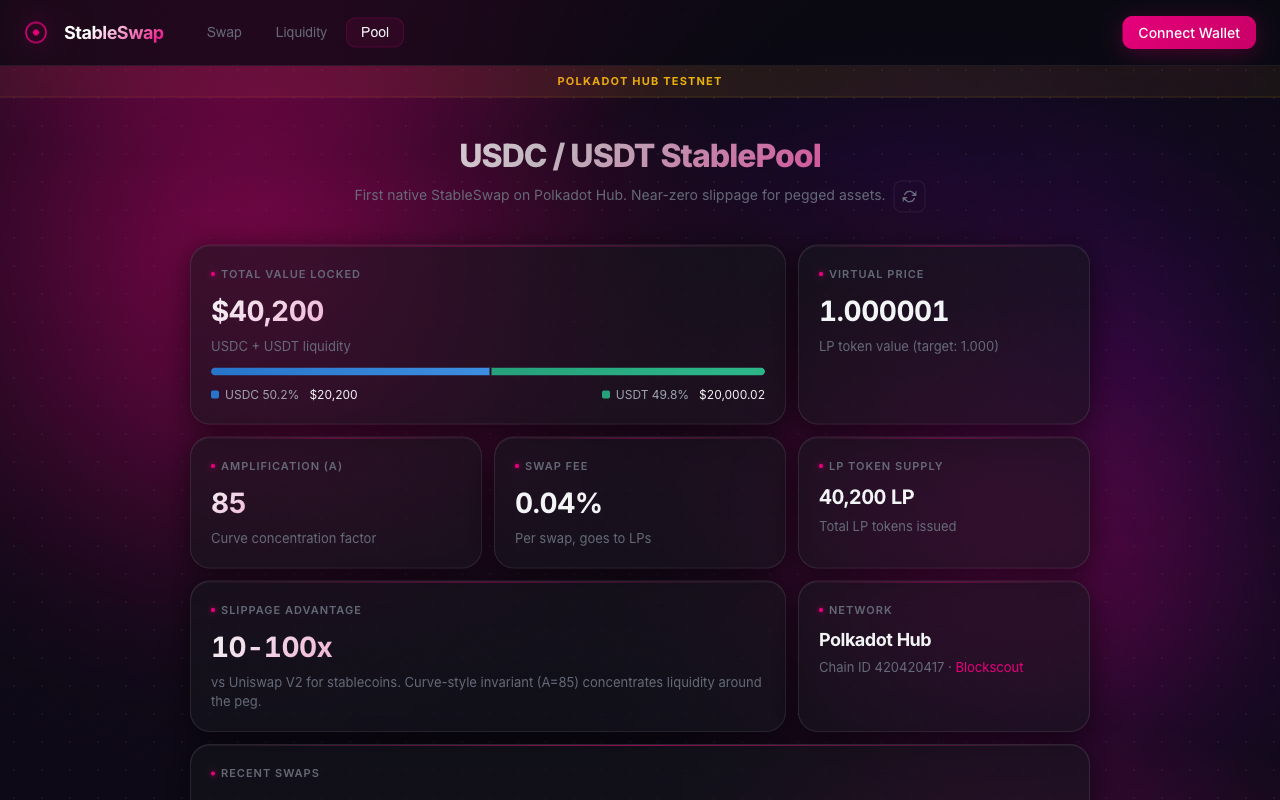
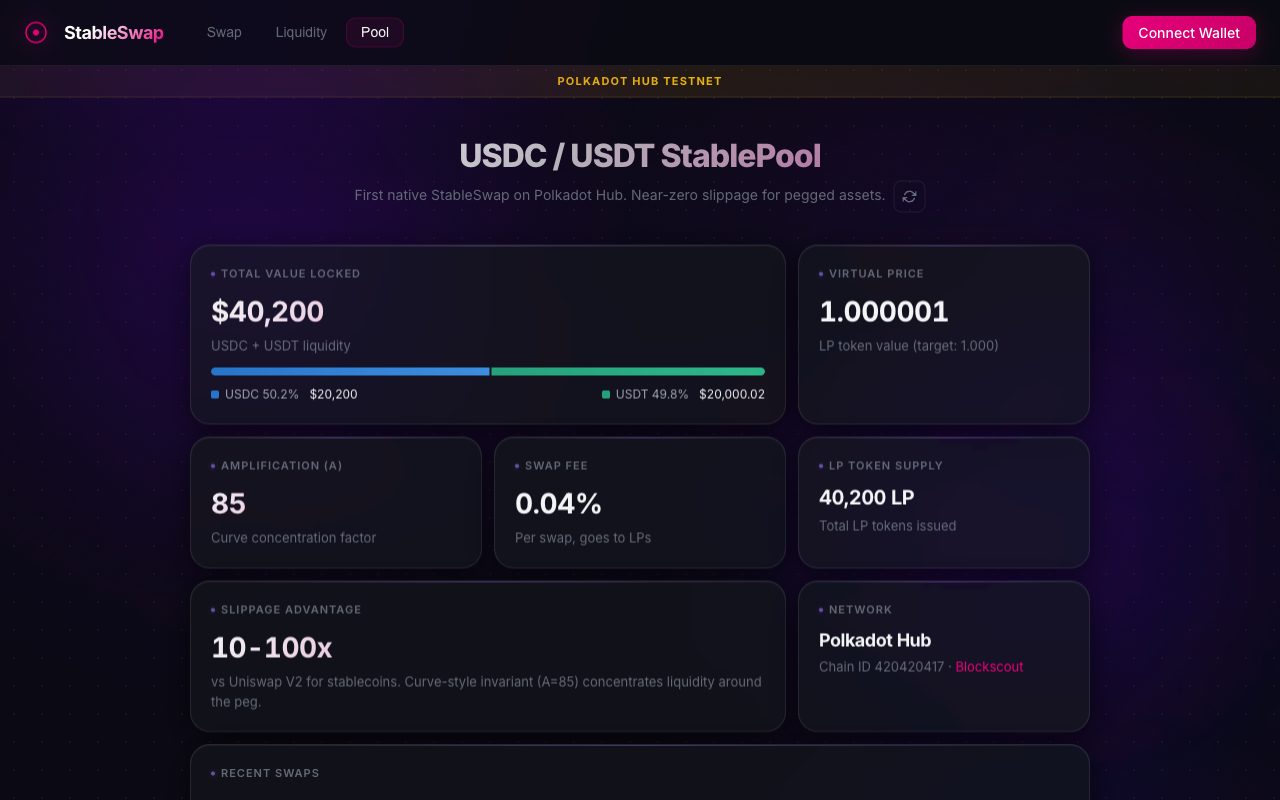
style: rebalance color palette from pink overload to midnight violet
Push Polkadot pink (#e6007a) back to interactive elements only (buttons,
active tabs, links). Background aurora orbs and card surfaces now use
deep violet/indigo tones, eliminating the monochromatic pink look.
Retake README screenshots with updated palette.

diff --git a/frontend/src/App.css b/frontend/src/App.css
@@ -30,7 +30,7 @@
   height: 800px;
   top: -20%;
   left: -12%;
-  background: radial-gradient(circle, rgba(230, 0, 122, 0.55) 0%, rgba(230, 0, 122, 0.20) 40%, transparent 70%);
+  background: radial-gradient(circle, rgba(80, 20, 180, 0.35) 0%, rgba(60, 0, 140, 0.12) 40%, transparent 70%);
   animation: breathe-a 17s ease-in-out infinite;
 }
 
@@ -39,7 +39,7 @@
   height: 600px;
   bottom: -8%;
   right: -8%;
-  background: radial-gradient(circle, rgba(180, 0, 140, 0.40) 0%, rgba(120, 0, 200, 0.12) 40%, transparent 70%);
+  background: radial-gradient(circle, rgba(50, 0, 160, 0.30) 0%, rgba(40, 0, 120, 0.10) 40%, transparent 70%);
   animation: breathe-b 23s ease-in-out infinite;
 }
 
@@ -49,7 +49,7 @@
   top: 25%;
   left: 50%;
   transform: translateX(-50%);
-  background: radial-gradient(circle, rgba(230, 0, 122, 0.35) 0%, rgba(180, 0, 100, 0.12) 45%, transparent 70%);
+  background: radial-gradient(circle, rgba(70, 10, 170, 0.25) 0%, rgba(50, 0, 130, 0.10) 45%, transparent 70%);
   animation: breathe-a 29s ease-in-out infinite reverse;
 }
 
@@ -58,7 +58,7 @@
   height: 450px;
   top: 10%;
   right: -5%;
-  background: radial-gradient(circle, rgba(120, 0, 200, 0.25) 0%, rgba(80, 0, 160, 0.08) 40%, transparent 70%);
+  background: radial-gradient(circle, rgba(90, 0, 180, 0.18) 0%, rgba(60, 0, 140, 0.06) 40%, transparent 70%);
   animation: breathe-b 19s ease-in-out infinite;
 }
 
@@ -402,14 +402,14 @@
   transform: translateX(-50%);
   width: 60%;
   height: 1px;
-  background: linear-gradient(90deg, transparent, rgba(230, 0, 122, 0.7), transparent);
+  background: linear-gradient(90deg, transparent, rgba(120, 80, 200, 0.5), transparent);
   border-radius: 0 0 50% 50%;
   pointer-events: none;
 }
 
 .panel:hover {
-  border-color: rgba(230, 0, 122, 0.25);
-  box-shadow: var(--shadow-panel), 0 0 80px rgba(230, 0, 122, 0.12);
+  border-color: rgba(120, 80, 200, 0.20);
+  box-shadow: var(--shadow-panel), 0 0 80px rgba(80, 40, 160, 0.08);
 }
 
 .panel-header {
@@ -982,10 +982,10 @@
 .rate-indicator {
   margin-top: 8px;
   padding: 16px;
-  background: rgba(230, 0, 122, 0.04);
-  border: 1px solid rgba(230, 0, 122, 0.15);
+  background: rgba(80, 40, 160, 0.06);
+  border: 1px solid rgba(120, 80, 200, 0.15);
   border-radius: var(--radius);
-  box-shadow: 0 0 20px rgba(230, 0, 122, 0.05) inset;
+  box-shadow: 0 0 20px rgba(80, 40, 160, 0.05) inset;
 }
 
 .rate-indicator-header {
@@ -995,7 +995,7 @@
 .rate-indicator-title {
   font-size: 13px;
   font-weight: 700;
-  color: var(--accent);
+  color: rgba(180, 150, 255, 0.8);
   text-transform: uppercase;
   letter-spacing: 0.8px;
 }
@@ -1198,8 +1198,8 @@
 .stableswap-info {
   margin-top: 10px;
   padding: 10px 12px;
-  background: var(--accent-soft);
-  border: 1px solid rgba(230, 0, 122, 0.15);
+  background: rgba(80, 40, 160, 0.06);
+  border: 1px solid rgba(120, 80, 200, 0.15);
   border-radius: var(--radius-sm);
   display: flex;
   flex-direction: column;
@@ -1209,7 +1209,7 @@
 .stableswap-info-label {
   font-size: 11px;
   font-weight: 600;
-  color: var(--accent);
+  color: rgba(180, 150, 255, 0.8);
   text-transform: uppercase;
   letter-spacing: 0.5px;
 }
@@ -1359,7 +1359,7 @@
   font-size: 32px;
   font-weight: 800;
   letter-spacing: -1px;
-  background: linear-gradient(135deg, #fff 0%, rgba(255, 255, 255, 0.7) 40%, var(--accent) 100%);
+  background: linear-gradient(135deg, #fff 0%, rgba(255, 255, 255, 0.7) 40%, rgba(200, 80, 160, 0.85) 100%);
   -webkit-background-clip: text;
   -webkit-text-fill-color: transparent;
   background-clip: text;
@@ -1392,8 +1392,8 @@
 }
 
 .bento-card:hover {
-  border-color: rgba(230, 0, 122, 0.25);
-  box-shadow: var(--shadow-card), 0 0 50px rgba(230, 0, 122, 0.10);
+  border-color: rgba(120, 80, 200, 0.20);
+  box-shadow: var(--shadow-card), 0 0 50px rgba(80, 40, 160, 0.08);
 }
 
 /* Top-edge glow line on cards */
@@ -1404,7 +1404,7 @@
   left: 0;
   right: 0;
   height: 1px;
-  background: linear-gradient(90deg, transparent 0%, rgba(230, 0, 122, 0.6) 50%, transparent 100%);
+  background: linear-gradient(90deg, transparent 0%, rgba(120, 80, 200, 0.45) 50%, transparent 100%);
 }
 
 .bento-card--wide {
@@ -1432,9 +1432,9 @@
   display: inline-block;
   width: 4px;
   height: 4px;
-  background: var(--accent);
+  background: rgba(160, 120, 255, 0.6);
   border-radius: 50%;
-  box-shadow: 0 0 6px var(--accent);
+  box-shadow: 0 0 4px rgba(160, 120, 255, 0.3);
 }
 
 .bento-value {
@@ -1446,7 +1446,7 @@
 }
 
 .bento-value--accent {
-  background: linear-gradient(135deg, var(--text-bright) 0%, var(--accent) 100%);
+  background: linear-gradient(135deg, var(--text-bright) 0%, rgba(230, 100, 180, 0.9) 100%);
   -webkit-background-clip: text;
   -webkit-text-fill-color: transparent;
   background-clip: text;
@@ -1543,8 +1543,8 @@
 
 /* User position card */
 .position-card {
-  background: linear-gradient(135deg, rgba(230, 0, 122, 0.08) 0%, rgba(230, 0, 122, 0.02) 100%);
-  border: 1px solid rgba(230, 0, 122, 0.2);
+  background: linear-gradient(135deg, rgba(80, 40, 160, 0.08) 0%, rgba(80, 40, 160, 0.02) 100%);
+  border: 1px solid rgba(120, 80, 200, 0.2);
 }
 
 /* Empty state for recent swaps */

diff --git a/frontend/src/index.css b/frontend/src/index.css
@@ -9,7 +9,7 @@
 
 :root {
   /* Core palette */
-  --bg: #0c0815;
+  --bg: #0a0812;
   --bg-card: rgba(20, 21, 28, 0.55);
   --bg-input: rgba(26, 27, 35, 0.8);
   --bg-hover: rgba(30, 31, 42, 0.9);
@@ -28,8 +28,8 @@
   --accent: #e6007a;
   --accent-hover: #cc006b;
   --accent-soft: rgba(230, 0, 122, 0.10);
-  --accent-glow: rgba(230, 0, 122, 0.20);
-  --accent-glow-strong: rgba(230, 0, 122, 0.35);
+  --accent-glow: rgba(230, 0, 122, 0.12);
+  --accent-glow-strong: rgba(230, 0, 122, 0.20);
 
   /* Semantic */
   --green: #22c55e;
@@ -65,10 +65,10 @@ body {
   font-family: var(--sans);
   background: var(--bg);
   background-image:
-    radial-gradient(ellipse 80% 50% at 20% -10%, rgba(230, 0, 122, 0.30) 0%, transparent 60%),
-    radial-gradient(ellipse 60% 40% at 80% 110%, rgba(230, 0, 122, 0.22) 0%, transparent 50%),
-    radial-gradient(ellipse 70% 50% at 50% 50%, rgba(120, 0, 80, 0.15) 0%, transparent 70%),
-    radial-gradient(ellipse 40% 30% at 70% 20%, rgba(100, 0, 180, 0.12) 0%, transparent 60%);
+    radial-gradient(ellipse 80% 50% at 20% -10%, rgba(80, 0, 180, 0.22) 0%, transparent 60%),
+    radial-gradient(ellipse 60% 40% at 80% 110%, rgba(60, 0, 140, 0.18) 0%, transparent 50%),
+    radial-gradient(ellipse 70% 50% at 50% 50%, rgba(40, 0, 100, 0.12) 0%, transparent 70%),
+    radial-gradient(ellipse 40% 30% at 70% 20%, rgba(90, 0, 160, 0.10) 0%, transparent 60%);
   background-attachment: fixed;
   color: var(--text);
   line-height: 1.5;
